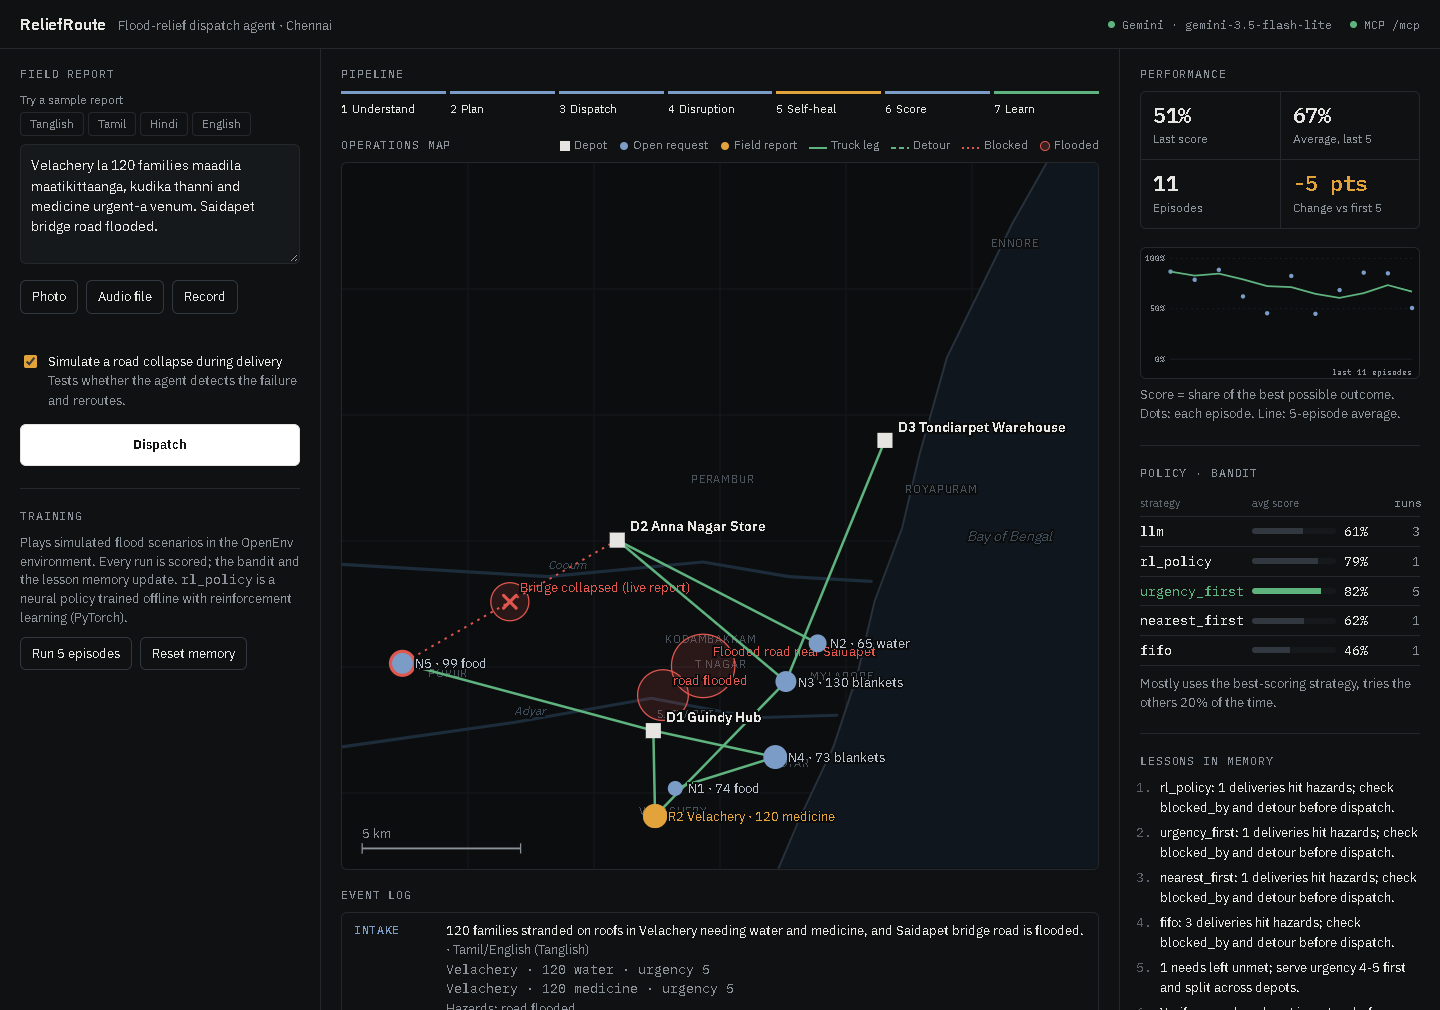
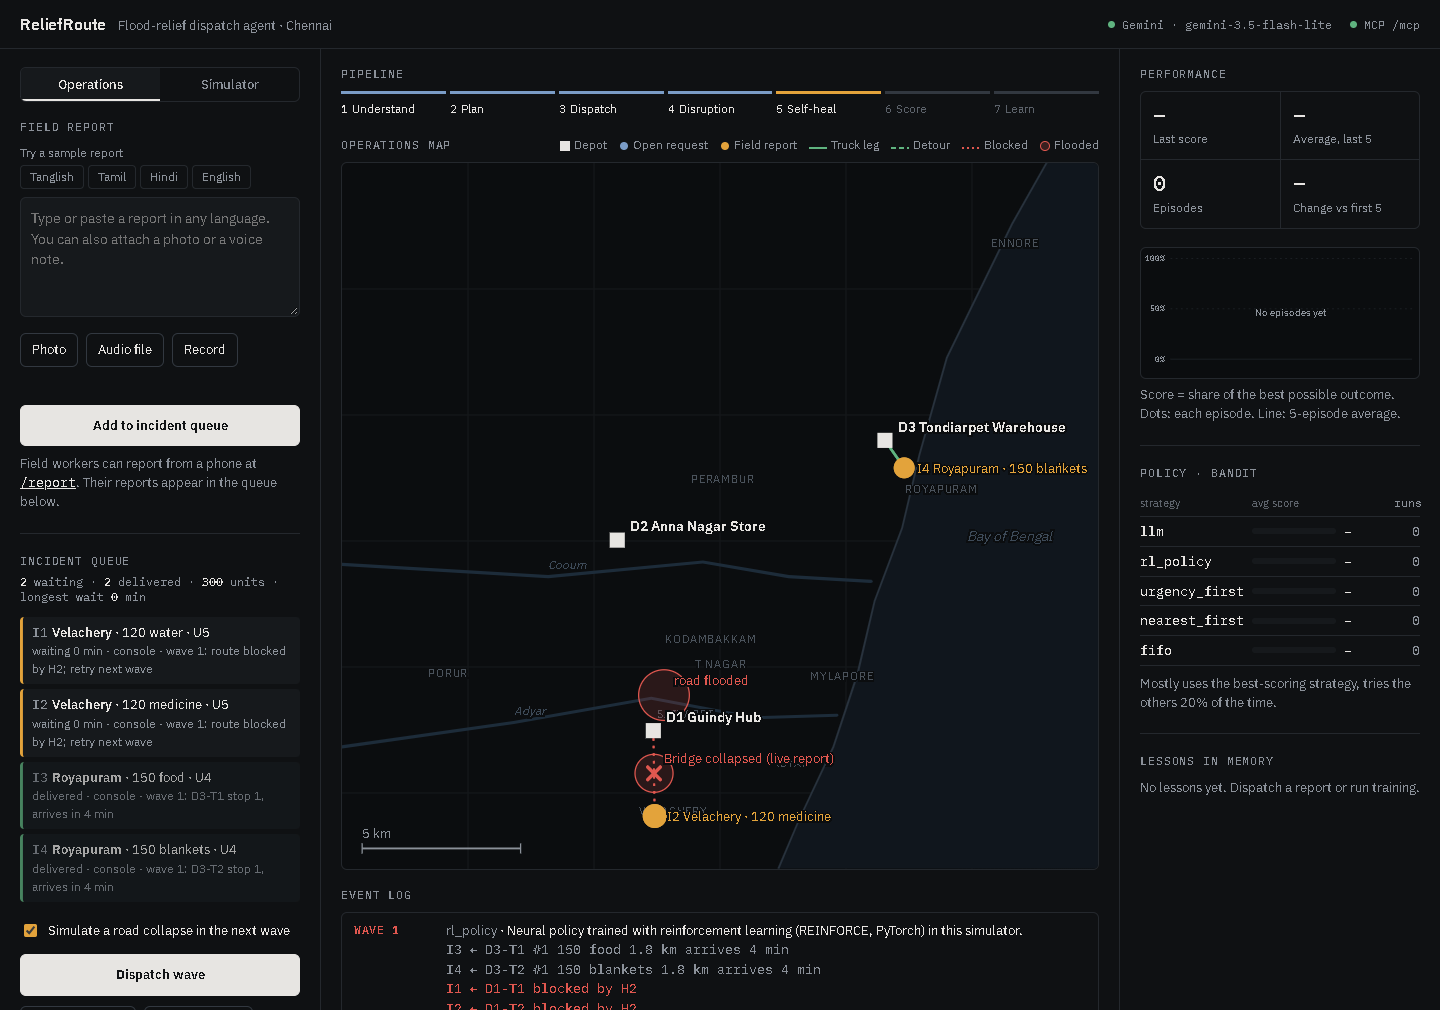
Keep last wave's routes on the map across refreshes; Operations screenshot; document multi-instance limitation

diff --git a/static/index.html b/static/index.html
@@ -497,7 +497,7 @@ async function api(path, opts) {
 
 // ---- live operations ------------------------------------------------------------------------------
 const OPS_KEY = "reliefroute-ops";
-let ops = null, opsDepots = null, opsBusy = false, opsSeen = null;
+let ops = null, opsDepots = null, opsBusy = false, opsSeen = null, opsLastWave = null;
 try { ops = JSON.parse(localStorage.getItem(OPS_KEY)); } catch { ops = null; }
 const mins = ts => Math.max(0, Math.round((Date.now() / 1000 - ts) / 60));
 const postJSON = (path, body) => api(path, { method: "POST", headers: { "Content-Type": "application/json" }, body: JSON.stringify(body) });
@@ -523,7 +523,7 @@ function renderOps(st, s) {
   if (document.body.dataset.mode === "ops" && !opsBusy) drawOpsMap();
 }
 
-function drawOpsMap(wave) {
+function drawOpsMap(wave = opsLastWave) {  // keep the last wave's routes on screen across polling refreshes
   if (!ops || !opsDepots) return;
   const depots = opsDepots.map(d => ({ ...d, stock: ops.stock[d.id] || d.stock }));
   const inWave = new Set(wave ? wave.trace[0].action.map(a => a.need_id) : []);
@@ -587,6 +587,7 @@ $("wave").onclick = async () => {
     const r = await postJSON("/api/ops/wave", { chaos: $("opsChaos").checked, ops });
     const w = r.wave, t = r.trace[0];
     opsBusy = false;
+    opsLastWave = r;
     renderOps(r.ops, r.summary); drawOpsMap(r);
     $("log").innerHTML = "";
     ev(`WAVE ${w.n}`, w.blocked ? "bad" : "good", `<span class="sub">${esc(w.strategy)}</span> · ${esc(t.reasoning)}${legLines(t.info)}`);
@@ -627,7 +628,7 @@ $("opsReset").onclick = async () => {
   if (!confirm("Start a new operation? This clears the incident queue and hazards and restocks every depot.")) return;
   try {
     const r = await api("/api/ops/reset", { method: "POST" });
-    opsSeen = new Set(); renderOps(r.ops, r.summary); drawOpsMap();
+    opsSeen = new Set(); opsLastWave = null; renderOps(r.ops, r.summary); drawOpsMap();
     $("log").innerHTML = '<div class="empty">New operation started. Depots restocked.</div>';
   } catch (e) { ev("ERROR", "bad", esc(e.message)); }
 };

diff --git a/README.md b/README.md
@@ -417,7 +417,7 @@ gcloud run deploy reliefroute --source . --region asia-south1 --allow-unauthenti
 - **The scenario data is simulated.** Depot stock, the other requests, flood zones and the bridge collapse are all simulated. Locations are real Chennai localities with approximate coordinates. Distances are straight-line multiplied by a 1.3 road factor, not a road network.
 - **Memory is not durable.** It is a JSON file on the serverless instance, plus a copy in each browser. It is not reliably shared between instances or users. A production version would store it in Firestore.
 - **The RL policy is trained offline and is small.** Its weights are updated in training, not while the app runs; online learning is the bandit and the Gemini lessons. It matches the best hand-written rule rather than clearly beating it. Gemini itself is not fine-tuned.
-- **There is no authentication.** Anyone with the link can submit field reports, dispatch waves and reset the operation or memory. Operation state, like memory, lives on one serverless instance plus the coordinator's browser. Per-address rate limits and a daily Gemini budget cap the damage, but both are kept per server instance. The MCP server is minimal: tools only, no sessions or streaming.
+- **There is no authentication.** Anyone with the link can submit field reports, dispatch waves and reset the operation or memory. Operation state, like memory, lives on one serverless instance plus the coordinator's browser. When the host runs more than one instance at the same time, a phone report can land on an instance the console is not reading. We saw this once in testing, right after a deployment. A shared database (Firestore) is the proper fix. Per-address rate limits and a daily Gemini budget cap the damage, but both are kept per server instance. The MCP server is minimal: tools only, no sessions or streaming.
 
 ## Next steps
 

diff --git a/docs/architecture.md b/docs/architecture.md
@@ -411,6 +411,8 @@ Results are written back by incident id. The state is re-read under a lock, so r
 - a fully served incident becomes `delivered`, with its truck, stop and arrival time in `note`
 - blocked and no-truck incidents keep `waiting`, with the reason in `note`
 
+**Known limitation: several instances.** State lives in one instance's `/tmp`. The browser copy recovers from an instance *restart*, but not from two instances running *at the same time*: a report handled by one is invisible to a console reading the other. Moving `ops.json` and `memory.json` to Firestore removes this.
+
 **GPS placement.** A phone report with a position inside the Chennai area places all of its incidents at that position. This replaces the coordinates Gemini inferred from the place name.
 
 **Situation report.** `ops.sitrep` assembles the facts: figures, per-area waiting needs with wait times, hazards, stock and recent waves. Gemini turns them into headline, overview, priorities, blocked roads and actions, using only that data, and the output is validated and truncated field by field. Stock alerts are a threshold fact, so they always come from the rule and Gemini never sees raw stock levels; in testing it flagged healthy depots as alerts. Without Gemini, `_rule_sitrep` produces the same sections deterministically: priorities by urgency then wait time, stock under 100 units, and one action per open problem.
